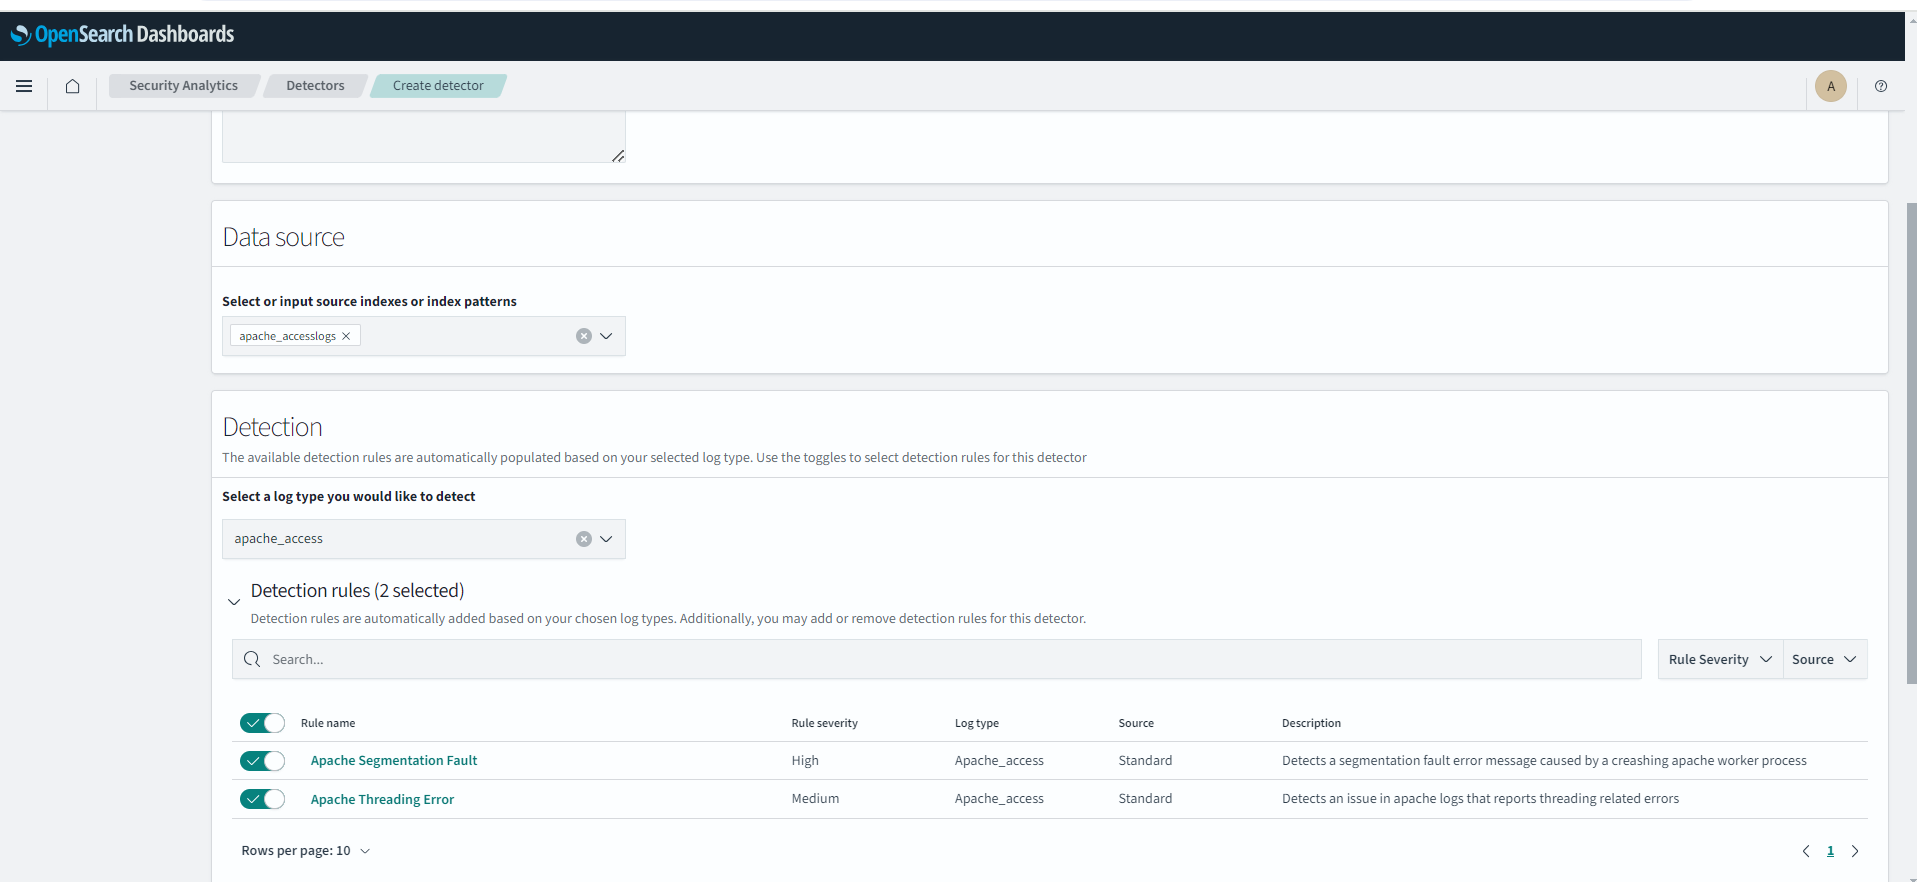
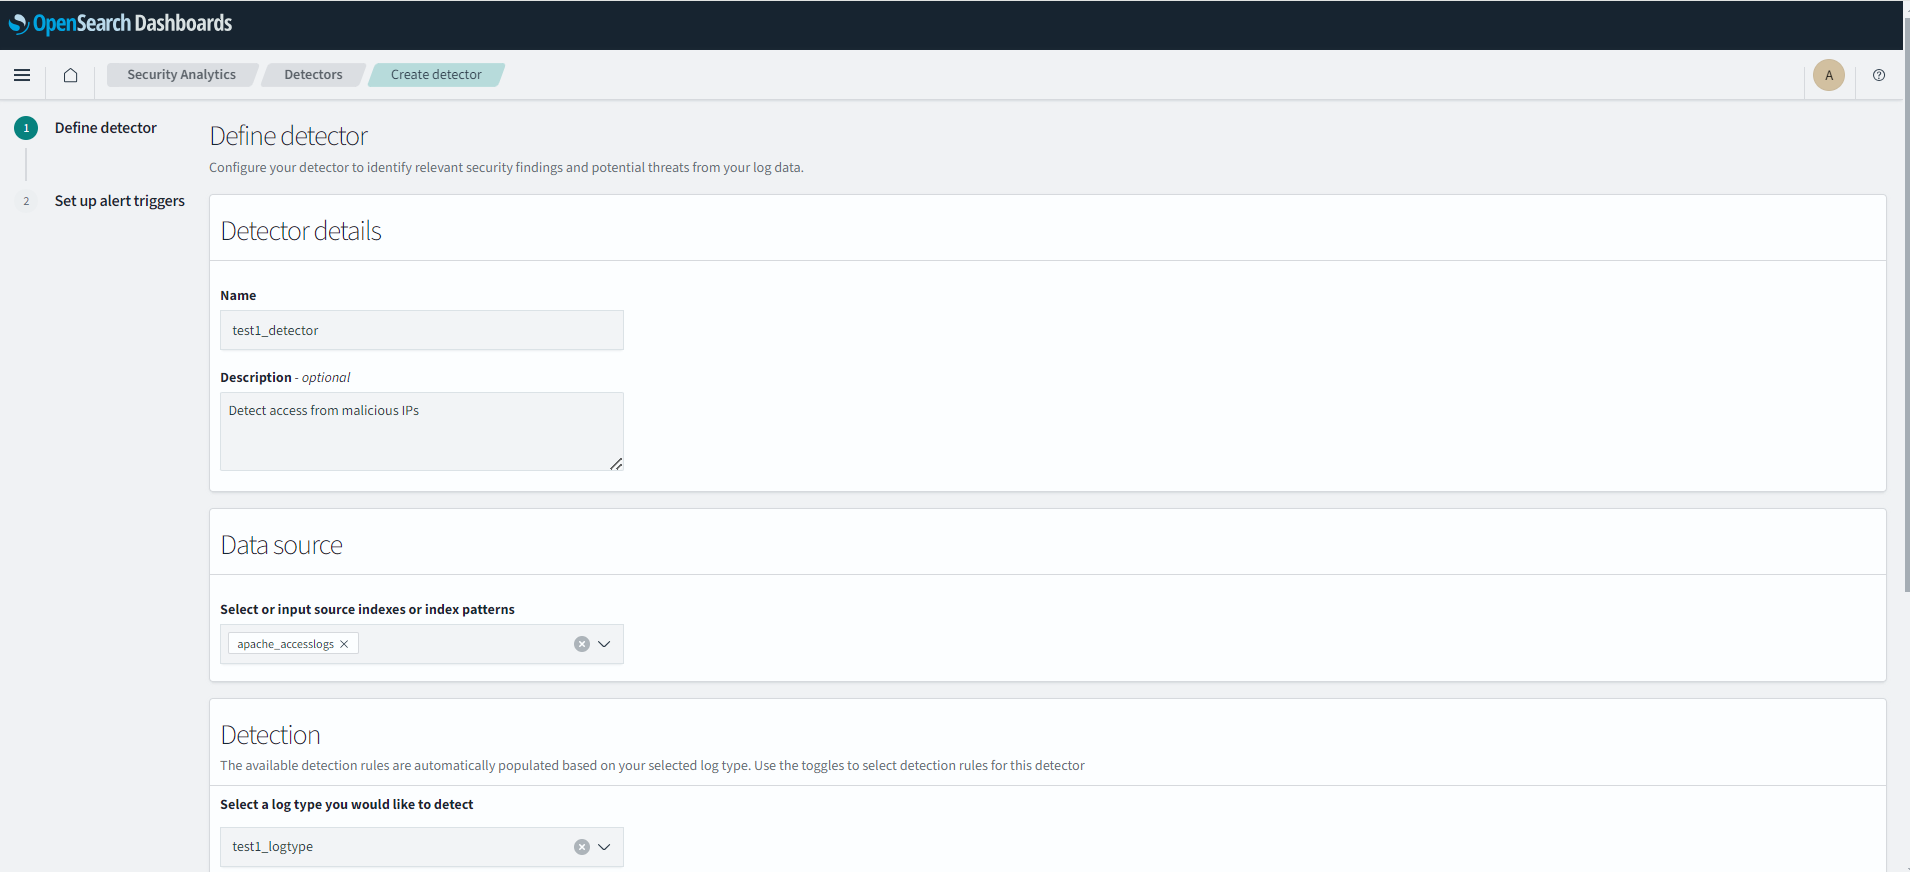
Siem

diff --git a/oci-opensearch/SIEM/siem.md b/oci-opensearch/SIEM/siem.md
@@ -10,8 +10,8 @@ Estimated Time: 15 minutes
 
 In this lab, you will:
 - Connect to the OpenSearch Dashboard
-- Search data using the Discover interface
-- Create a simple pie chart for the sample data
+- Create Detectors, and Detection rules in Security Analytics
+- Generate fidnigs and alerst based on new logs uploaded into OpenSearch
 
 ## Step1: Prerequisites
 Confirm that the OpenSearch cluster is version 2.11 or higher.  This is the latest version. To create a cluster, see Creating an OpenSearch Cluster (LABs 1,2). You will have to connect to the OpenSearch Dashboard.
@@ -19,6 +19,7 @@ Please refer to **LAB2** **Task3** on how to connect to the OpenSearch Dashboard
 
 ## Step 2: Review the strucure of the Apache access logs
 First connect to the OpenSearch Dashboard (you have to provide the username/password).Go to the **Management** **Dev Tools** section.
+
 Upload the Apache access logs data ulizing the command:
 ```html
    <copy>POST apache_accesslogs/_bulk
@@ -51,8 +52,60 @@ Now go to **Discover** and select the following index **apache_accesslogs**  in 
    ![OpenSearch Dashboards - Document Details](../images/image-siem1.png)
 Analyze the fields in the docoument.
 
+## Step 3: Create new Log types in Security Analytics
+In the OpenSearch Dashboard  go to **Security Analytics** \ **Detectors**. And clik on **Log types**, you will see a list of default log types in OpneSearch.
+If you click on a log type you can see the deatils and the Detection Rules assiciated with the log type:
+  ![OpenSearch Dashboards - Document Details](../images/image-siem5.png)
+You can also create your onw log type, by clicking on **Create Log type**
 
-## Step 3: Create Detectors in Security Analytics (SIEM) 
+
+  ![OpenSearch Dashboards - Document Details](../images/image-siem6.png)
+
+The new log type will appear on the list of log types.
+
+
+## Step 4: Create Detectors in Security Analytics (SIEM) 
+In the OpenSearch Dashboard  go to **Security Analytics** \ **Detectors**. Most likely there will be no detectors created yet. 
+
+First let's create **Detection Rules**
+On the ame page click on Dettection Rules and Create:
+
+  ![OpenSearch Dashboards - Document Details](../images/image-siem7.png)
+
+Fill out the Detedtion section - specifying two potektially malicious IPs in the clientIP field.
+
+   ![OpenSearch Dashboards - Document Details](../images/image-siem8.png)
+
+CLick on **Create Detection Rule**
+
+   The rule will be created and will appear on the list of detection rules.you can review other rules:
+
+   Still in Security Analytics, fileter on Apache, clikc on **Detection rules** under **Detectors** and click on one of the Rules
+   ![OpenSearch Dashboards - Document Details](../images/image-siem4.png)
+
+Now let't create a ** Detector**  Click on **Create Detector** and fill in:
+```html
+Name: test1_detector
+Descriptio: Detect access from malicious IPs
+Data Source Index: apache_accesslogs
+Detction Log type: test1_logtype 
+Detection rule: Test1_test1_logtype
+
+   ```
+
+   ![OpenSearch Dashboards - Document Details](../images/image-siem2.png)
+
+Click on **Next**
+Fill out the page the following way
+
+   ![OpenSearch Dashboards - Document Details](../images/image-siem3.png)
+
+Click **Create Detector** and the detector will show up in the detectors page.
+
+
+
+
+## Step 5: Generate finfings and alarms using sample data 
 In the OpenSearch Dashboard  go to **Security Analytics** \ **Detectors**. Most likely there will be no detectors created yet. 
 Click on **Create Detector** and fill in:
 ```html
@@ -73,21 +126,6 @@ Fill out the page the following way
 Click **Create Detector** and the detector will show up in the detectors page.
 
 
-Still in Security Analytics, fileter on Apache, clikc on **Detection rules** under **Detectors** and click on one of the Rules
-   ![OpenSearch Dashboards - Document Details](../images/image-siem4.png)
-You can also create detection rules, by clicking on **Create detection rule**
-
-
-## Step 4: Create new Log types in Security Analytics
-In the OpenSearch Dashboard  go to **Security Analytics** \ **Detectors**. And clik on **Log types**, you will see a list of default log types in OpneSearch.
-If you click on a log type you can see the deatils and the Detection Rules assiciated with the log type:
-  ![OpenSearch Dashboards - Document Details](../images/image-siem5.png)
-You can also create your onw log type, by clicking on **Create Log type**
-
-
-  ![OpenSearch Dashboards - Document Details](../images/image-siem6.png)
-
-The new log type will appear on the list of log types.
 
 ## Acknowledgements
 
